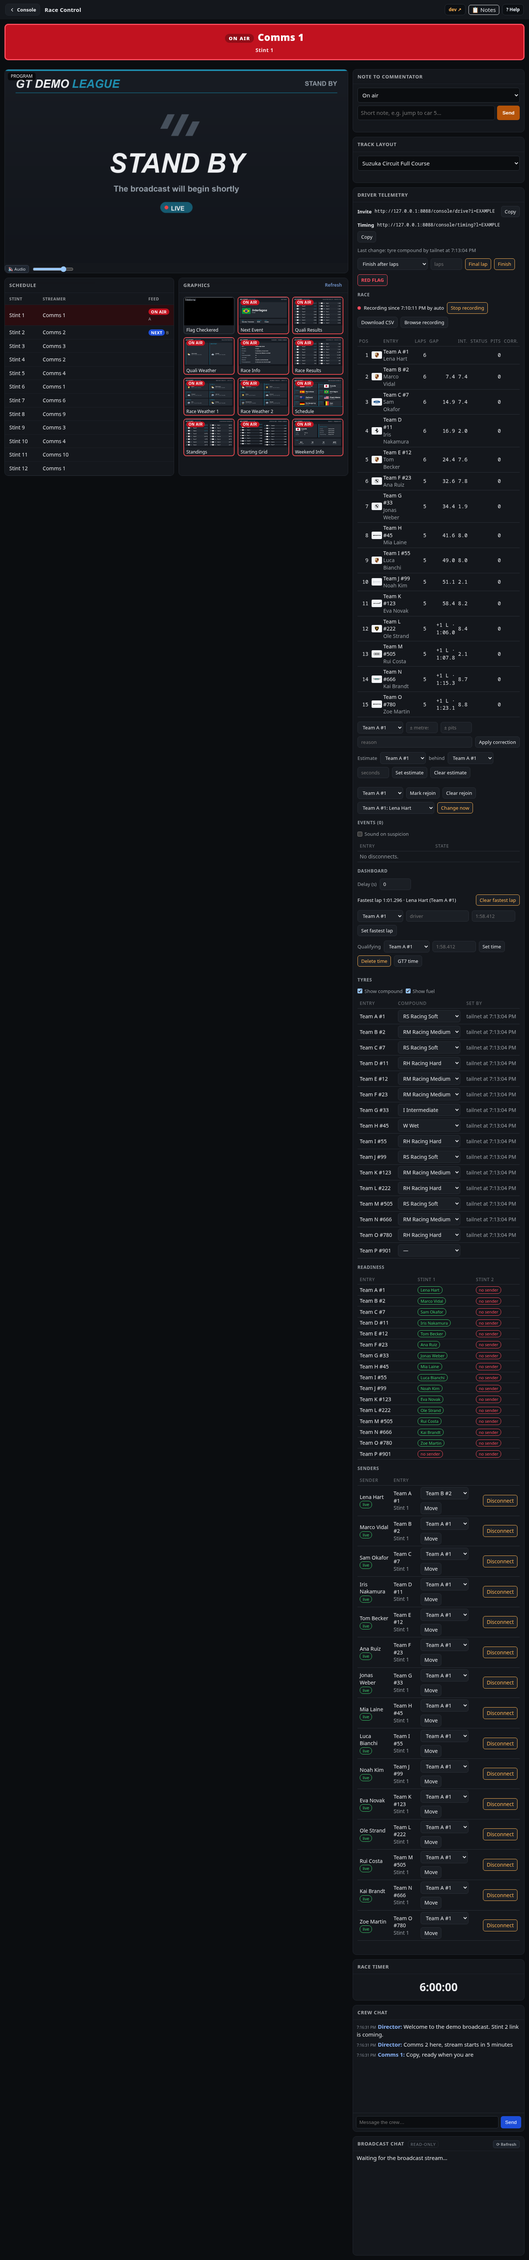
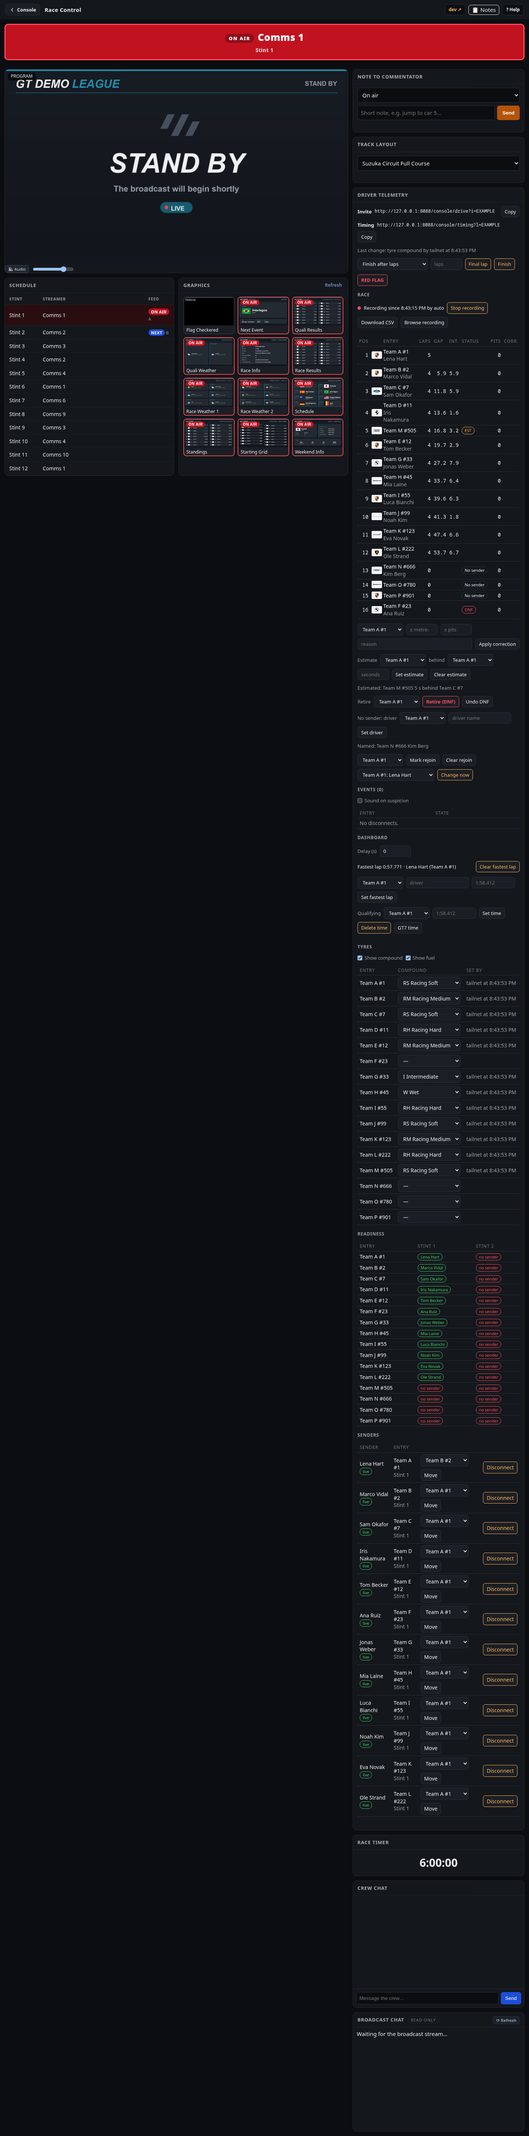
docs(timing): entries without a sender, the start hold and DNF
Driver-Telemetry and the relay notes describe the No sender rows, the
driver name, the estimate's start hold and the retirement. The Race Control
and Director Panel driver screenshots show an estimated car that never
sent, three cars without a sender (one named) and a DNF.

diff --git a/src/relay/CLAUDE.md b/src/relay/CLAUDE.md
@@ -380,9 +380,9 @@ Tests: tests/test_intermission_live.py and tools/e2e-intermission.py.
 
 **Driver telemetry invite and ingest (#1111).** `driver_invite` keeps one invite per event in `runtime/<profile>/driver-invite.json` (read per request): `event start` creates it for a fresh session and keeps it for a takeover or recovery restart (a takeover on another machine creates one, since the Funnel host changes anyway), `event stop` deletes it, `event invite --new` and the Control Center's **New link** replace it while an event runs (between events they refuse). A driver code `D1:<payload>.<sig>` is signed with the invite file's `key`, which never appears in the link (the link's `id` alone cannot mint codes), and `verify` re-checks every field; a new invite revokes every code, and the ingest refuses a code whose entry left the Configuration roster, and its single dot keeps it from parsing as a console token. `_console_gate` hands `/console/drive/*` to `_drive` before the subject check: `GET /console/drive?i=` (page `src/console/drive.html`, no cookie), `/data` (Configuration entries; endurance adds the Schedule and Qualifying labels), `POST /register` (checks entry, segment and name, returns the code), `/sender.py` (the relay's own sender script) and `POST /ingest` with `X-Driver-Code`. Failed invites and codes use their own `_drive_authfail_rl`, never the console bucket. `driver_ingest.Hub` counts per connection through a `telemetry_probe.Probe` (head decrypt for loss, every 6th packet whole as the latest sample) and enforces one live sender per entry in a single lobby, two per team in endurance (`LIVE_S` 20 s); `register` answers 409 while the entry is full (`Hub.entry_full`) and the ingest refuses a code for a full entry the same way, never replacing the sender, and a quiet sender coming back competes for its slot again. The roster check uses `Hub.entry_for`, so a sender reassigned off a removed entry keeps uploading. A connection quiet for `FORGET_S` (10 min) is forgotten, but its reassignment stays, since the code still names the old entry; reassignment and disconnect records are each capped at four times the connection limit; the hub resets when the invite id changes. Tailnet: `GET /drivers/data`, `POST /drivers/disconnect {conn}` (410 for that code afterwards). Contract: `src/docs/design/driver-telemetry-ingest.md`; driver guide: wiki Driver-Telemetry. Tests: `tests/test_driver_invite.py`, `tests/test_driver_ingest.py`, `tests/test_driver_routes.py`.
 
-**Driver race (#1112).** The hub's `on_sample` feeds every sample (dated by packet id within its batch) to `driver_race.Service`, which holds one `race_distance.Race` along the picked layout's `reference_trace` and rebuilds it when the pick changes. GT7's counter reads 0 on the grid; the finish line's station is learned per car from its own crossing (a car without one uses the agreeing medoid of at least `LINE_QUORUM` counting entries), a late sender starts at most on the leader's lap, a change needs a lobby counter of at most 2, the counter gives whole laps and the projection the fraction, and only within `SNAP_M` of the line may the prediction move a sample a lap. Single lobby finishes on GT7's counter including lap 1 (formation lap), checked against distance; endurance on the final lobby's counter of a car that took over after the final switch. Every sample is checked before it changes anything (finite, inside the line's area, in time order, plausible step), because it comes from a driver's machine. Box = standing more than `BOX_LATERAL_M` off the line (unconfirmed until the #1110 pit measurement). Only `relay.mode == "race"` feeds it; the race lives in memory. `stint_switch_watch` opens the driver change window when the on-air row changes and passes the last row's `Laps` cell (`ScheduleSource.final_laps`, kept out of the 4-tuple rows), else the event setting; it marks the last row on air even without a count, so a `lap_count` set later reaches the final lobby (`Service.set_settings`) without moving the final switch time. Settings `runtime/<profile>/driver-race.json` (`racecast event race`, Control Center Home). Tailnet: `GET /drivers/race`, `POST /drivers/race/{settings,final-lap,finish,reset}`; desk controls come with #1114. Race Control actions (#1113): `POST /drivers/race/{red-flag,restart-mode,release,rejoin,correct,change}` with identity `tailnet` until the desks pass theirs; a red flag freezes every entry and each resumes from its anchor (keep, or neutralise per lap) when a car of the restart lobby leaves the box. `POST /drivers/race/estimate` (`{entry, ref, seconds}` or `{entry, clear: true}`, both desks) puts a quiet car where its reference was `seconds` ago (`Race._advance` over the fine and coarse history, `_distance_at`), status `est` over `no_data`/`dc`, gaps = the reference's plus `seconds`; in memory only, frozen under a red flag (folded into the restart anchor) and after the flag, ended by the car's next data (`estimate_end` in the audit). `release` lets a car still in its old session count on (a mis-press); a single lobby counts finish laps in race distance, because a restart from the box shifts the restart lobby's line. Corrections and rejoin marks persist in `runtime/<profile>/driver-race-actions.json` until a race reset (`Service.reset`, which keeps the file's tyre compounds and qualifying corrections) or a fresh `event start` (`driver_race.clear_actions`, which empties it), every action appends to `driver-race-audit.jsonl`, and the league's restart default is `profiles/<name>/driver-race.json` (travels with `profile export`). Tests: `tests/test_race_distance.py`, `tests/test_driver_race.py`, `tests/test_driver_routes.py`.
+**Driver race (#1112).** The hub's `on_sample` feeds every sample (dated by packet id within its batch) to `driver_race.Service`, which holds one `race_distance.Race` along the picked layout's `reference_trace` and rebuilds it when the pick changes. GT7's counter reads 0 on the grid; the finish line's station is learned per car from its own crossing (a car without one uses the agreeing medoid of at least `LINE_QUORUM` counting entries), a late sender starts at most on the leader's lap, a change needs a lobby counter of at most 2, the counter gives whole laps and the projection the fraction, and only within `SNAP_M` of the line may the prediction move a sample a lap. Single lobby finishes on GT7's counter including lap 1 (formation lap), checked against distance; endurance on the final lobby's counter of a car that took over after the final switch. Every sample is checked before it changes anything (finite, inside the line's area, in time order, plausible step), because it comes from a driver's machine. Box = standing more than `BOX_LATERAL_M` off the line (unconfirmed until the #1110 pit measurement). Only `relay.mode == "race"` feeds it; the race lives in memory. `stint_switch_watch` opens the driver change window when the on-air row changes and passes the last row's `Laps` cell (`ScheduleSource.final_laps`, kept out of the 4-tuple rows), else the event setting; it marks the last row on air even without a count, so a `lap_count` set later reaches the final lobby (`Service.set_settings`) without moving the final switch time. Settings `runtime/<profile>/driver-race.json` (`racecast event race`, Control Center Home). Tailnet: `GET /drivers/race`, `POST /drivers/race/{settings,final-lap,finish,reset}`; desk controls come with #1114. Race Control actions (#1113): `POST /drivers/race/{red-flag,restart-mode,release,rejoin,correct,change}` with identity `tailnet` until the desks pass theirs; a red flag freezes every entry and each resumes from its anchor (keep, or neutralise per lap) when a car of the restart lobby leaves the box. `POST /drivers/race/estimate` (`{entry, ref, seconds}` or `{entry, clear: true}`, both desks) puts a quiet car where its reference was `seconds` ago (`Race._advance` over the fine and coarse history, `_distance_at`), status `est` over `no_data`/`dc`, gaps = the reference's plus `seconds`; in memory only, frozen under a red flag (folded into the restart anchor) and after the flag, ended by the car's next data (`estimate_end` in the audit); before the reference's history reaches `seconds` back it holds at the reference's first distance (`Race._first`), with the time since then as its gap (`lag`). Every Configuration roster entry stands in the standings (`Race.set_roster`, synced from `_dashboard_context` in `_viewer`, `standings()` and `estimate`): one that never sent is a row without a car (`_NO_CAR`), status `no_sender`, at the end in roster order; an estimate creates it without a connection (`Race._adopt`) and the first sender adopts it. `POST /drivers/race/retire {entry, on}` (both desks) marks a car retired (`retired` in the actions file): it stops counting (a counter drop no longer restarts it), status `retired` wins over every other, it sits below every running car and the retired among themselves by distance, has no gaps, fuel or map position, takes no flag (`finish` and `_crossing` skip it), raises no DC event, ends its estimate and is no reference; undo sets `resume`, so its next sample re-anchors at the frozen distance. `POST /drivers/race/driver-name {entry, name}` names the driver of an entry without a car (`driver_names`, kept by a race reset); the route's roster check covers both. `release` lets a car still in its old session count on (a mis-press); a single lobby counts finish laps in race distance, because a restart from the box shifts the restart lobby's line. Corrections, rejoin marks and retirements persist in `runtime/<profile>/driver-race-actions.json` until a race reset (`Service.reset`, which keeps the file's tyre compounds, driver names and qualifying corrections) or a fresh `event start` (`driver_race.clear_actions`, which empties it), every action appends to `driver-race-audit.jsonl`, and the league's restart default is `profiles/<name>/driver-race.json` (travels with `profile export`). Tests: `tests/test_race_distance.py`, `tests/test_driver_race.py`, `tests/test_driver_routes.py`.
 
-**Race recording and disconnect events.** `src/scripts/race_recording.py` holds the `Store` (one SQLite file per event, `runtime/<profile>/race-recording-<UTC stamp>.sqlite`, named by the pointer `race-recording.json`), a bounded `Writer` thread (120 jobs; `failed` and `dropped` show in the status) and the `Recorder`. `driver_race.Service.open_recording()` opens it in race mode right after the control port is bound; before that call neither the tick nor a request opens or creates a store (a start answers 503), after it the first race-mode tick opens one that is missing (a qualifying relay creates no file, its status is an empty placeholder and a manual start answers 409) and feeds it from the tick with the live, undelayed `standings()`, in race mode only; a recording error is logged once, retried after `RECORDING_RETRY_S` and never stops the tick or the fastest-lap save; the routes answer it with 503. The Writer logs its first failed write once. One sample per second on a fixed grid (a wall clock jump back or more than 2 s ahead starts a new one), a JSON doc `{state, red_flag, rows}` (`pos` = index + 1, `compound` from the saved actions). It starts when the first car counts (`racing`, `final_lap`, `finishing`) and stops when the state turns `finished`, which re-arms the auto start for the next race; a manual stop is not undone by the auto start, and the first observe after a restart is a baseline, so a restart in a finished race keeps a manual recording. Director and Race Control start and stop it by hand. `rotate` (a fresh `event start` with the relay stopped) clears the pointer so the next use opens a new file; an `event start` on a running relay continues the current recording, like the invite. The running flag lives in the file's `meta`, so a relay restart resumes it. A disconnect is suspected while the recording runs, when a car with a distance is quiet for more than `race_distance.NO_DATA_S` (5 s), dated by its last packet; none for a car in the box during the change window, none under a red flag, none for a row still `waiting` for its red flag restart (a standings field), none for a finished car. Data that returns while the recording is stopped still ends the dropout. An event whose add job the Writer dropped stays in memory only, and its later updates are lost with it on a restart. States `suspected`, `dropout` (data came back), `confirmed`, `dismissed`; `decide` may re-decide. Decisions and start/stop go to `driver-race-audit.jsonl`. The CSV carries the sample's `state` and red flag mode on every row; `csv_rows` neutralises cells starting with `=`, `+`, `-`, `@`, tab or CR with a leading `'`. The timing tower (`src/obs/drivers.html`) shows `gap_s` (to the leader); standings rows also carry `gap_time_s`/`interval_time_s`, exact times for lapped cars, which only the desks show (`+1 L · 1:02.5`) and `driver_race.public_view` never carries. Tailnet routes: `GET/POST /drivers/race/recording` (`{action: start|stop}`), `POST /drivers/race/recording/event` (`{id, decision: confirm|dismiss}`), `GET /drivers/race/recording/at?time=<epoch s>` (the nearest sample, 404 without one), `GET /drivers/race/recording/csv`; the Director and Race Control policies allow them under `/console` and `/console/race-control`. The query parameter is `time`, never `t` (the console token). `GET /drivers/snapshot?time=` serves `src/console/race-snapshot.html` (also `/console/drivers/snapshot` and `/console/race-control/drivers/snapshot`, role-gated, relative fetches); the desk's **Show standings** opens it 5/10/15/20/30 s (default 10) before the event's last packet, **Browse recording** opens it without a time (the end of the span), and the slider spans the whole recording and refreshes it every 10 s. A trailing slash redirects to the path without it, because the fetches are relative; the page sets the console cookie only for a token the gate verified. `gap_time_s`/`interval_time_s` are None while the car ahead is quiet. The desk sound on suspicion is per browser and off by default. Tests: `tests/test_race_recording.py`.
+**Race recording and disconnect events.** `src/scripts/race_recording.py` holds the `Store` (one SQLite file per event, `runtime/<profile>/race-recording-<UTC stamp>.sqlite`, named by the pointer `race-recording.json`), a bounded `Writer` thread (120 jobs; `failed` and `dropped` show in the status) and the `Recorder`. `driver_race.Service.open_recording()` opens it in race mode right after the control port is bound; before that call neither the tick nor a request opens or creates a store (a start answers 503), after it the first race-mode tick opens one that is missing (a qualifying relay creates no file, its status is an empty placeholder and a manual start answers 409) and feeds it from the tick with the live, undelayed `standings()`, in race mode only; a recording error is logged once, retried after `RECORDING_RETRY_S` and never stops the tick or the fastest-lap save; the routes answer it with 503. The Writer logs its first failed write once. One sample per second on a fixed grid (a wall clock jump back or more than 2 s ahead starts a new one), a JSON doc `{state, red_flag, rows}` (`pos` = index + 1, `compound` from the saved actions). It starts when the first car counts (`racing`, `final_lap`, `finishing`) and stops when the state turns `finished`, which re-arms the auto start for the next race; a manual stop is not undone by the auto start, and the first observe after a restart is a baseline, so a restart in a finished race keeps a manual recording. Director and Race Control start and stop it by hand. `rotate` (a fresh `event start` with the relay stopped) clears the pointer so the next use opens a new file; an `event start` on a running relay continues the current recording, like the invite. The running flag lives in the file's `meta`, so a relay restart resumes it. A disconnect is suspected while the recording runs, when a car with a distance is quiet for more than `race_distance.NO_DATA_S` (5 s), dated by its last packet; none for a car in the box during the change window, none under a red flag, none for a row still `waiting` for its red flag restart (a standings field), none for a finished or retired car, none for a row without a car (`quiet_s` None). Data that returns while the recording is stopped still ends the dropout. An event whose add job the Writer dropped stays in memory only, and its later updates are lost with it on a restart. States `suspected`, `dropout` (data came back), `confirmed`, `dismissed`; `decide` may re-decide. Decisions and start/stop go to `driver-race-audit.jsonl`. The CSV carries the sample's `state` and red flag mode on every row; `csv_rows` neutralises cells starting with `=`, `+`, `-`, `@`, tab or CR with a leading `'`. The timing tower (`src/obs/drivers.html`) shows `gap_s` (to the leader); standings rows also carry `gap_time_s`/`interval_time_s`, exact times for lapped cars, which only the desks show (`+1 L · 1:02.5`) and `driver_race.public_view` never carries. Tailnet routes: `GET/POST /drivers/race/recording` (`{action: start|stop}`), `POST /drivers/race/recording/event` (`{id, decision: confirm|dismiss}`), `GET /drivers/race/recording/at?time=<epoch s>` (the nearest sample, 404 without one), `GET /drivers/race/recording/csv`; the Director and Race Control policies allow them under `/console` and `/console/race-control`. The query parameter is `time`, never `t` (the console token). `GET /drivers/snapshot?time=` serves `src/console/race-snapshot.html` (also `/console/drivers/snapshot` and `/console/race-control/drivers/snapshot`, role-gated, relative fetches); the desk's **Show standings** opens it 5/10/15/20/30 s (default 10) before the event's last packet, **Browse recording** opens it without a time (the end of the span), and the slider spans the whole recording and refreshes it every 10 s. A trailing slash redirects to the path without it, because the fetches are relative; the page sets the console cookie only for a token the gate verified. `gap_time_s`/`interval_time_s` are None while the car ahead is quiet. The desk sound on suspicion is per browser and off by default. Tests: `tests/test_race_recording.py`.
 
 **Public live timing (#1128): the first unauthenticated path through Funnel.** Everything else under `/console` needs a console identity, and the two other exceptions (`/console/drive`, `/console/probe/ingest`) only take telemetry in. `/console/timing?l=<id>` serves `src/console/timing.html` and `/console/timing/data?l=<id>` the delayed dashboard snapshot cut by `driver_race.public_view` (no connection ids, positions, corrections, authors, stream URLs, chat or controls; compound and fuel always, the display switches only hide them on air). The id comes from `runtime/<profile>/timing-link.json` (`timing_link`, the invite's file format), separate from the drivers' invite: `event start` creates it (fresh event) and `event stop` clears it, `racecast event timing --new` and the Control Center's Home row renew it while an event runs, and both desks show it (`GET /drivers/timing-link`). The handler compares the id in constant time, answers GET only, rate-limits wrong ids in a bucket of its own (a crowd holding an old link never turns a driver's 403 into 429), and paces the data route through an upload budget instead of a viewer cap: `timing_feed.TickBody` builds the public JSON at most once per 2 s tick, gzipped, with an ETag (`If-None-Match` gets a 304), and `timing_feed.Budget` estimates the viewers from the responses it served and sends each one the next poll interval in `X-Poll-After` (2 to 30 s) so that all of them stay within `RACECAST_TIMING_BUDGET_KBPS` (machine `.env`, default 1000 kbit/s). Nobody is turned away for load; a 300 requests per second cap remains only against abuse, and its 429 also carries `X-Poll-After` and counts as demand, so a crowd arriving at once spreads out. The estimate window is 60 s, twice the longest interval, because a shorter one misses slow pollers and the crowd oscillates (`t_an_obeying_crowd_stays_near_the_budget`). Until the samples cover the whole window (a crowd that just arrived), the estimate divides by the span they do cover, at least 2 s, and each handed-out interval is spread up to half the need around it (inside 2 to 30 s), so a crowd that arrived together does not keep returning together (`t_a_crowd_arriving_at_once_stays_near_the_budget`). Every answer counts `timing_feed.HEADER_BYTES` on top of its body. The 30 s ceiling bounds what the budget can hold: at the default 1000 kbit/s and about 950 bytes per answer that is roughly 4000 viewers, beyond which the upload grows with the crowd again. Revalidation follows RFC 9110 (`timing_feed.etag_matches`: lists, `W/`, `*`); gzip and plain bodies carry their own strong ETags, and `Accept-Encoding` is parsed with q-values (`accepts_gzip`). A failing build keeps serving the last good body (one retry per tick); without one the route answers 503 with `X-Poll-After`, and the error is logged once. `X-Data-Age` tells the page how old the tick body is; the payload's `remaining_running` (the race timer's mode) and `delay_s` let it count down locally and name the delay. The page is built once per relay process and served gzipped with an ETag. `/console/timing/brand/<key>?l=<id>` serves brand logos behind the same id check and failure bucket, with an abuse cap of its own (`TIMING_BRAND_RPS`) and outside the poll budget, but held to its rate by `brand_logos.ByteWindow` (`RACECAST_TIMING_BUDGET_KBPS` over 10 s, at least one logo; beyond it 429 with `Retry-After`): only a key in the Configuration roster, only `brand_logos.Logos` (the league override `runtime/<profile>/brands/<key>.png`, then `src/assets/brands/<key>.png`, PNG magic, at most `MAX_BYTES`), `Cache-Control: public, max-age=86400`, `nosniff`. On Funnel the page builds the logo URL beside its own path (`TimingLogic.brandUrl`, only `l=` carried) and retries a failed logo after a minute, doubling per failure up to 30 minutes. The public body names a brand only while its logo resolves (`driver_race.public_brands` in `_timing_public`), so no viewer polls a missing one. The budget, the tick and the interval touch only these two routes: `driver_race`, `/drivers/dashboard` (the stream overlay) and every other `/drivers/*` route (Race Control, the desks) are never paced (`t_internal_dashboard_routes_ignore_the_timing_budget`).
 

diff --git a/src/docs/wiki/Driver-Telemetry.md b/src/docs/wiki/Driver-Telemetry.md
@@ -97,6 +97,18 @@ and says so. Changing the layout mid-event starts the race over.
   tower, cockpit, public timing page, the recording and its frozen standings), until the
   car sends data again. A car Race Control placed with an **estimate** shows **EST**
   instead of either (see below).
+- **No sender**: every entry of the Configuration roster stands in the order from the
+  start. One whose driver never ran a sender sits at the end with no gap: **No sender**
+  on the desks, **No data** on the tower, the cockpit and the public timing page. A
+  sender that connects later takes the entry over. Race Control can place such a car
+  with an estimate and enter its driver's name on the desk (**No sender: driver**);
+  without a name the screens show the team.
+- **DNF**: Race Control or the director retire a car on the desk (**Retire (DNF)**, two
+  clicks). It stops counting, drops below every running car and shows **DNF** on every
+  screen, the recording and its CSV included; its dot leaves the track map. Several
+  retired cars rank by the distance they covered. A retired car raises no disconnect
+  event, ends its estimate and cannot be an estimate's reference. **Undo DNF** takes
+  back a mis-press: the car counts on from its last distance.
 - **Pit stops** count every box stop the car drives out of. The count is an estimate:
   the relay sees a stop as standing off the racing line, so a car beached beside the
   track or stopped there under a red flag counts as a pit stop too. The desks' `Pits`
@@ -292,7 +304,9 @@ then say "quota nearly used: viewers stay on Funnel". Only the next UTC day lift
   A **change override** makes a team's other sender the active one at once.
 - **Estimate** keeps a car without data in the order: pick the quiet entry, the car it
   runs behind and the seconds, then **Set estimate**. While the car stays quiet it
-  shows where the reference car was that many seconds ago, its gap is the reference's
+  shows where the reference car was that many seconds ago (right after the start, before
+  the reference has driven that long, it waits at the reference's first known distance,
+  just behind it on the grid), its gap is the reference's
   gap plus the seconds, and every screen marks it **EST** (desks, tower, cockpit,
   public timing page, the recording and its CSV). On the track map its dot moves with
   the reference, set back by the gap, inside a dashed amber ring. The reference must send data. Set it
@@ -303,8 +317,9 @@ then say "quota nearly used: viewers stay on Funnel". Only the next UTC day lift
   its reference took the flag, and an estimated car never takes the flag by itself.
   Estimates are not saved: a relay restart drops them.
 
-Corrections and rejoin marks survive a relay restart; a race reset and the next
-`event start` drop them. Every action is logged with who
+Corrections, rejoin marks and retirements survive a relay restart; a race reset and
+the next `event start` drop them. Driver names for entries without a sender survive a
+race reset too and go with the next `event start`. Every action is logged with who
 and when in `runtime/<profile>/driver-race-audit.jsonl`. Race Control and the director
 use them from the Race Control desk ([Console](Console)) and the Director Panel
 ([Director](Director#driver-telemetry)).

diff --git a/docs/superpowers/specs/2026-11-19-estimated-position-design.md b/docs/superpowers/specs/2026-11-19-estimated-position-design.md
@@ -34,6 +34,14 @@ way to keep such a car in the order with a rough gap until its data returns.
   effect until it goes quiet. An estimated car never takes the chequered flag by itself:
   Race Control finishes the classification with the existing tools.
 
+## Later additions
+
+- **Start hold.** Before the reference has history S seconds back (right after the
+  start), X waits at the reference's first known distance until it has; the gap counts
+  the time since then.
+- **Entries without a sender.** An estimate may place a roster entry that never sent;
+  the relay creates it without a connection.
+
 ## Not in scope
 
 - No automatic estimate. Race Control always decides.
